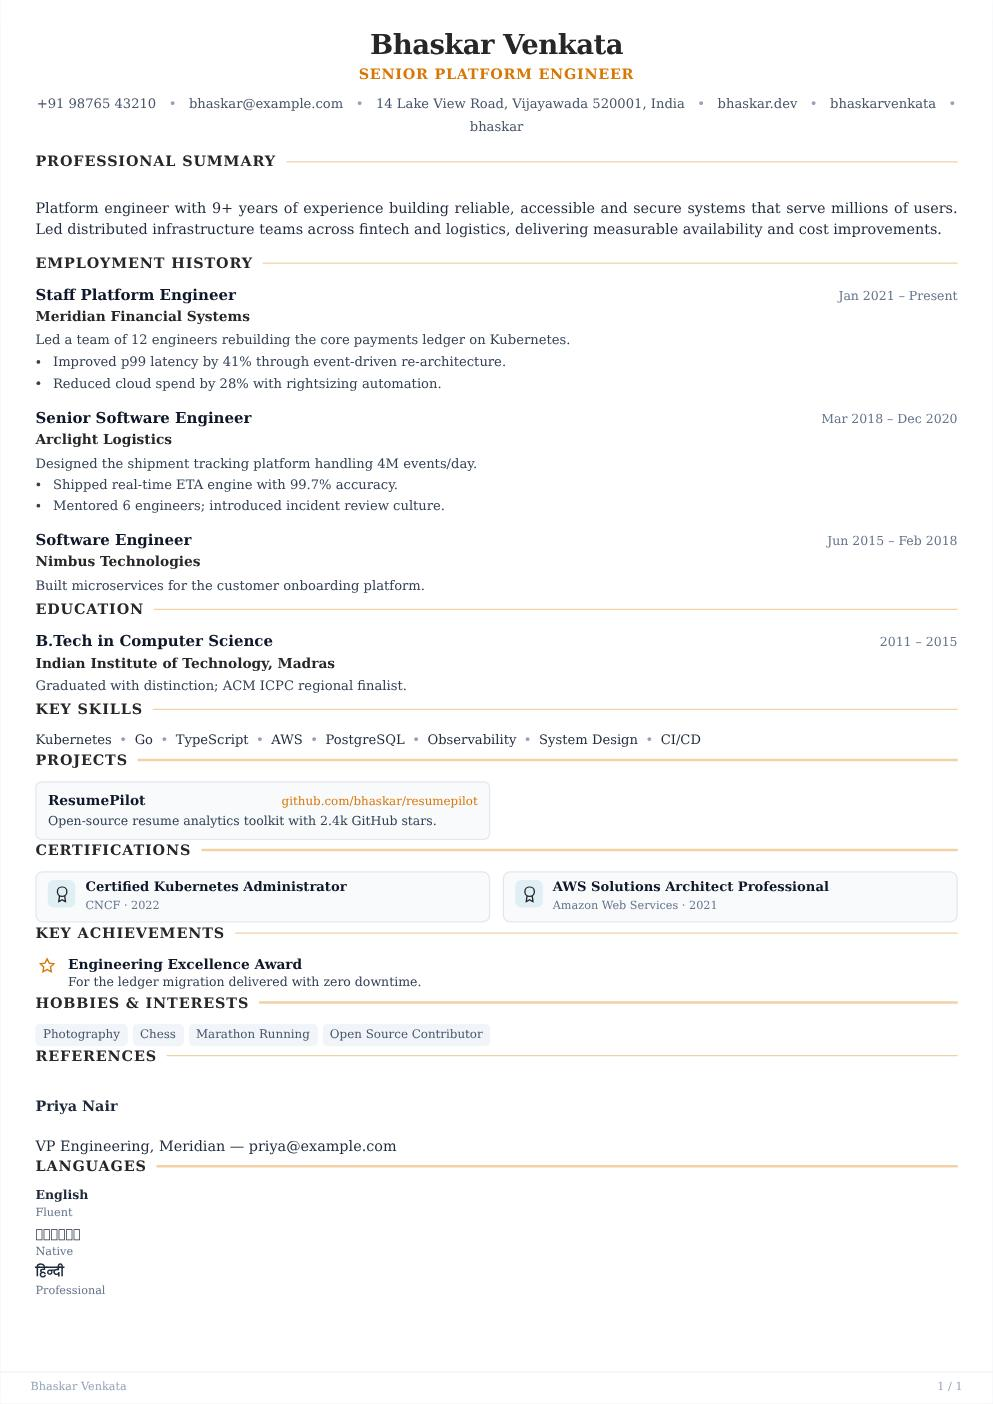
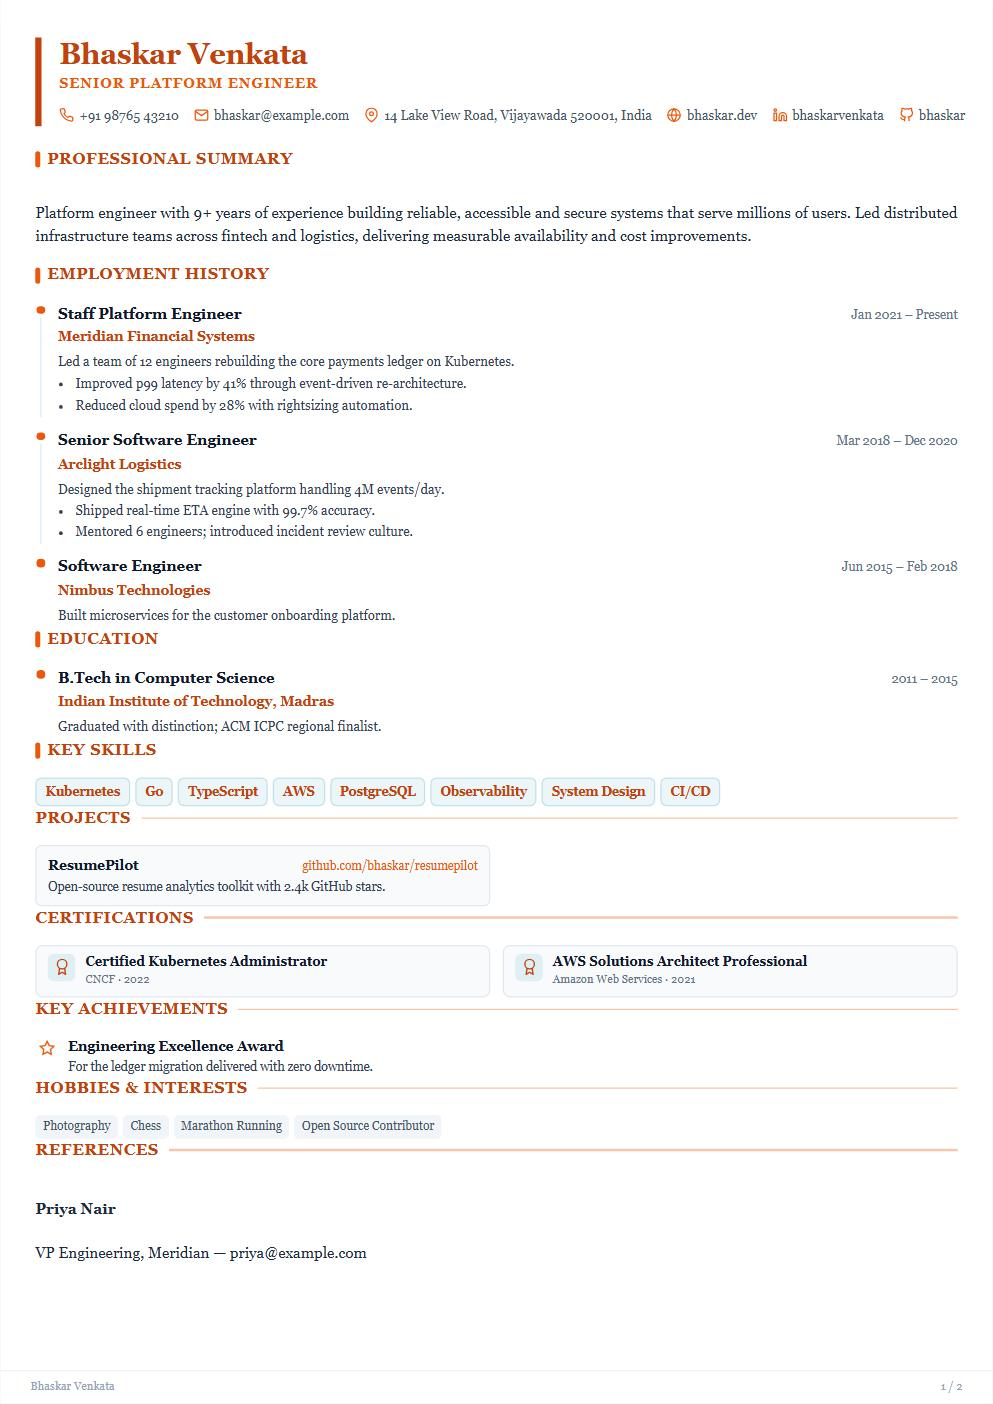
fix(templates): differentiate Cv18 Ivy League ATS layout tokens and sync DOCX theme

diff --git a/backend/services/docxThemes.js b/backend/services/docxThemes.js
@@ -121,7 +121,7 @@ const THEMES = Object.freeze({
   Cv15: theme({ name: "MIT Technical ATS", archetype: A.MINIMAL_ATS, primary: '#8b0000', secondary: '#475569', font: "'Inter', sans-serif", skillVariant: S.BADGES, headerStyle: 'accent-bracket', dividerStyle: 'left-bar', timelineStyle: 'code-tag', density: 'compact' }),
   Cv16: theme({ name: "Apex Navy Banner", archetype: A.EXECUTIVE_BANNER, primary: '#1e3a8a', secondary: '#38bdf8', headerBg: 'linear-gradient(135deg, #172554 0%, #1e3a8a 100%)', headerText: '#ffffff', font: "'Outfit', sans-serif", skillVariant: S.BADGES, sidebarWidth: '31%', headerStyle: 'banner', dividerStyle: 'solid-thin', timelineStyle: 'accent-bullet', density: 'standard' }),
   Cv17: theme({ name: "Teal Horizon Banner", archetype: A.EXECUTIVE_BANNER, primary: '#0f766e', secondary: '#14b8a6', headerBg: 'linear-gradient(135deg, #134e4a 0%, #0f766e 100%)', headerText: '#ffffff', font: "'Plus Jakarta Sans', sans-serif", skillVariant: S.BARS, sidebarWidth: '33%', headerStyle: 'banner', dividerStyle: 'left-bar', timelineStyle: 'modern-node', density: 'standard' }),
-  Cv18: theme({ name: "Princeton Minimal ATS", archetype: A.MINIMAL_ATS, primary: '#27272a', secondary: '#d97706', font: "'Georgia', serif", skillVariant: S.INLINE, headerStyle: 'centered-classic', dividerStyle: 'solid-thin', timelineStyle: 'compact-clean', density: 'standard' }),
+  Cv18: theme({ name: "Princeton Minimal ATS", archetype: A.MINIMAL_ATS, primary: '#c2410c', secondary: '#ea580c', font: "'Georgia', serif", skillVariant: S.PILLS, headerStyle: 'accent-bracket', dividerStyle: 'left-bar', timelineStyle: 'accent-bullet', density: 'spacious' }),
   Cv19: theme({ name: "Zurich Financial ATS", archetype: A.MINIMAL_ATS, primary: '#004b49', secondary: '#d97706', font: "'Plus Jakarta Sans', sans-serif", skillVariant: S.BADGES, headerStyle: 'centered-classic', dividerStyle: 'double-line', timelineStyle: 'compact-clean', density: 'compact' }),
   Cv20: theme({ name: "Pacific Blue Split", archetype: A.MODERN_SPLIT, primary: '#0284c7', secondary: '#38bdf8', sidebarBg: '#f0f9ff', sidebarText: '#0369a1', font: "'Plus Jakarta Sans', sans-serif", skillVariant: S.BARS, sidebarWidth: '34%', headerStyle: 'sidebar', dividerStyle: 'solid-thick', timelineStyle: 'accent-bullet', density: 'standard' }),
   Cv21: theme({ name: "Imperial Indigo Banner", archetype: A.EXECUTIVE_BANNER, primary: '#3730a3', secondary: '#6366f1', headerBg: 'linear-gradient(135deg, #312e81 0%, #3730a3 100%)', headerText: '#ffffff', font: "'Outfit', sans-serif", skillVariant: S.DOTS, sidebarWidth: '32%', headerStyle: 'banner', dividerStyle: 'double-line', timelineStyle: 'subtle-line', density: 'standard' }),

diff --git a/src/engine/hybrid/themePresets.js b/src/engine/hybrid/themePresets.js
@@ -297,14 +297,14 @@ export const THEME_PRESETS = {
   Cv18: {
     name: 'Princeton Minimal ATS',
     archetype: ARCHETYPES.MINIMAL_ATS,
-    primary: '#27272a',
-    secondary: '#d97706',
+    primary: '#c2410c',
+    secondary: '#ea580c',
     font: "'Georgia', serif",
-    skillVariant: SKILL_VARIANTS.INLINE,
-    headerStyle: 'centered-classic',
-    dividerStyle: 'solid-thin',
-    timelineStyle: 'compact-clean',
-    density: 'standard',
+    skillVariant: SKILL_VARIANTS.PILLS,
+    headerStyle: 'accent-bracket',
+    dividerStyle: 'left-bar',
+    timelineStyle: 'accent-bullet',
+    density: 'spacious',
   },
 
   Cv19: {
